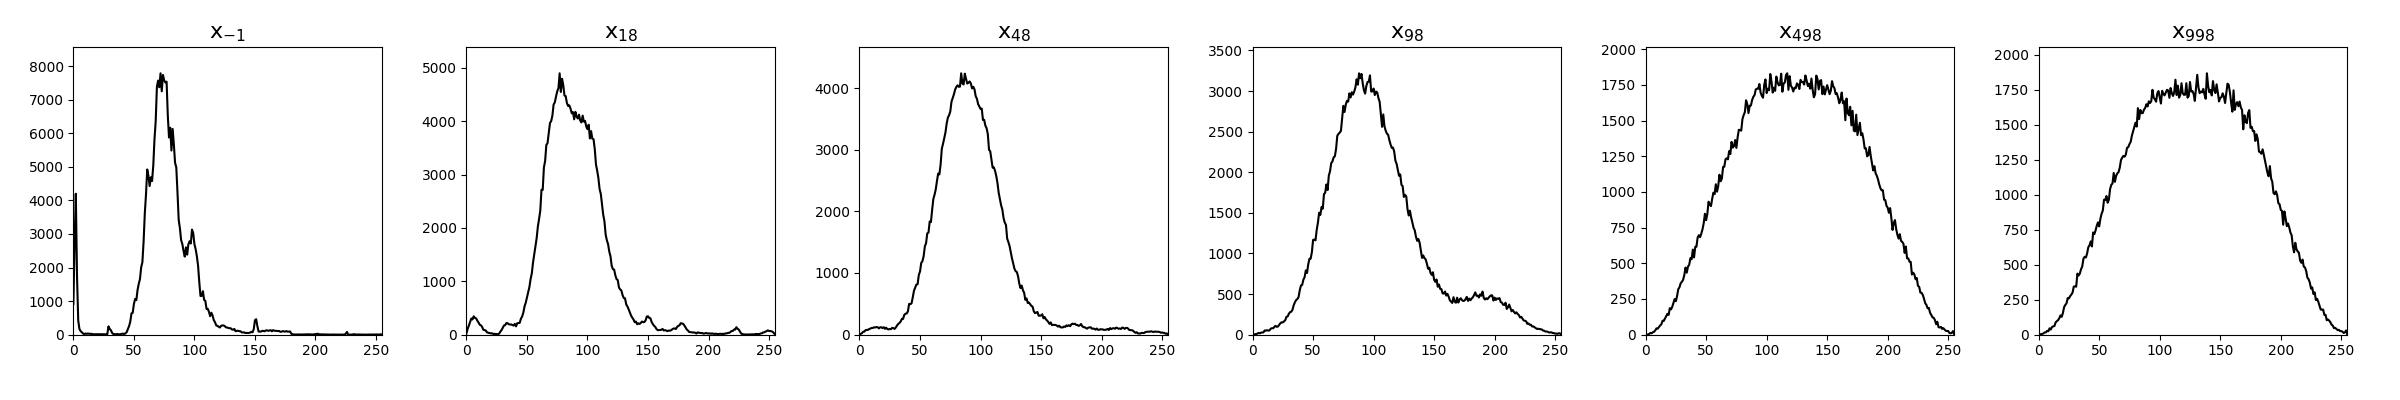
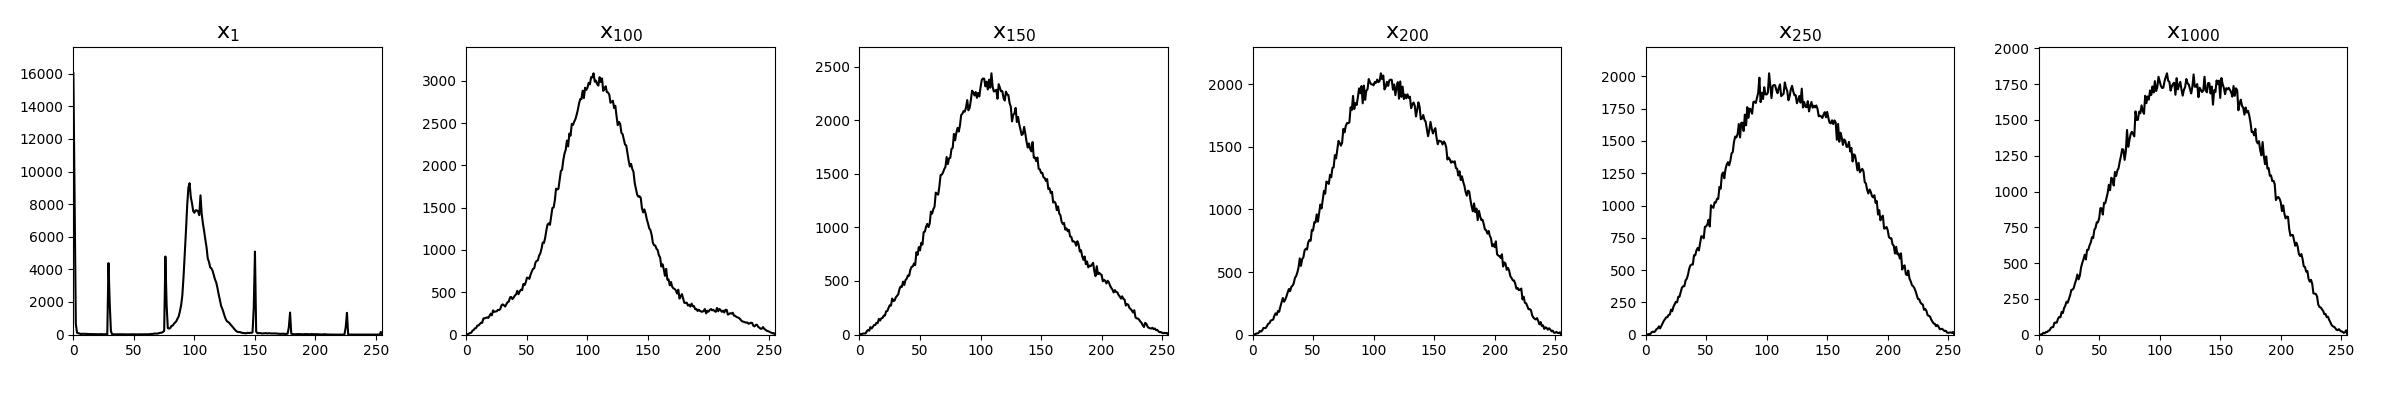
Refactor code to improve visualization of forward diffusion process

diff --git a/visualise_test.py b/visualise_test.py
@@ -6,7 +6,7 @@ from utils import show_noisy_images
 import numpy as np
 
 # Load the image
-image = Image.open('retinal_image_2_1.jpg')
+image = Image.open('007-0038-000.jpg')
 image_size = 512
 
 # Define the transformation pipeline
@@ -26,7 +26,7 @@ diffusion = GaussianDiffusion(beta_scheduler='linear')
 # diffusion = GaussianDiffusion(beta_scheduler='sigmoid', schedule_fn_kwargs={'start': 0.01, 'end': 5, 'tau': 3})
 
 # Define the timesteps to sample
-t_sample = [0, 19, 49, 99, 499, 999]
+t_sample = [0, 99, 149, 199, 249, 999]
 
 # Generate and display noisy images at different timesteps
 show_noisy_images([[diffusion.get_noisy_image(x0, torch.tensor([t])) for t in t_sample]], t_sample)

diff --git a/utils.py b/utils.py
@@ -92,7 +92,7 @@ def plot_hist(t_sample, axes, image_index, image):
     axes[image_index].plot(hist, color='black')
     axes[image_index].set_xlim([0, 255])
     axes[image_index].set_ylim([0, max(hist) * 1.1])
-    axes[image_index].set_title(f'$x_{{{t_sample[image_index]-1}}}$', fontsize=16)
+    axes[image_index].set_title(f'$x_{{{t_sample[image_index]+1}}}$', fontsize=16)
     axes[image_index].set_yticks = ([0, hist.max()/2, hist.max()])
     axes[image_index].set_xtickslabels = ([0, 255/2,255])
 
